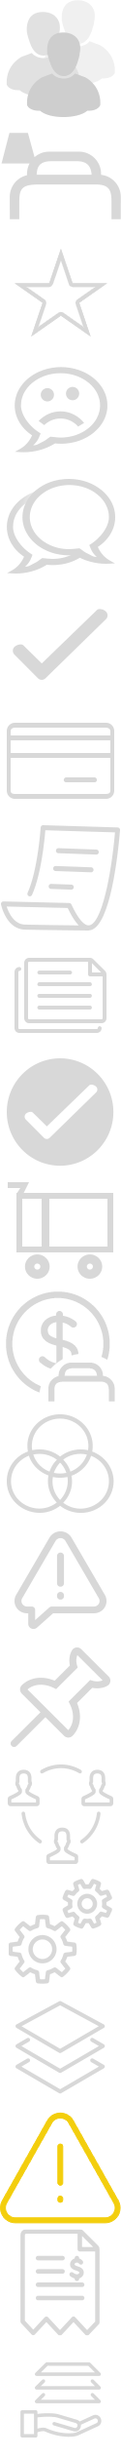
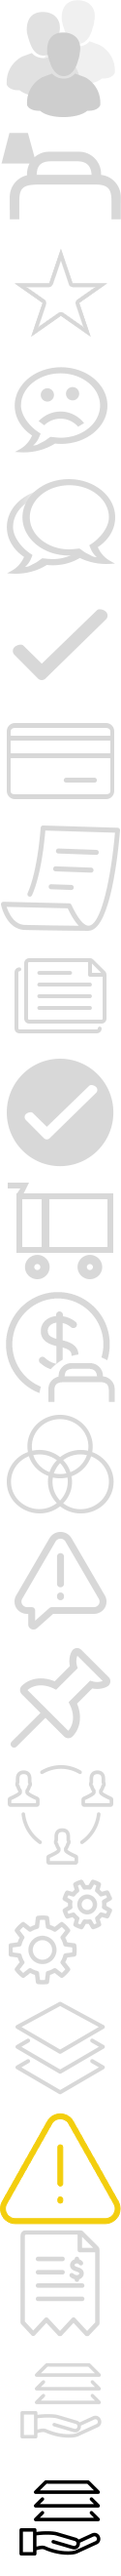
Adding No Content sidebar to CICO-71557

Changed region(s): [[0.0, 0.031, 1.0, 1.0]]

diff --git a/stylesheets/less/app/screens/04.cards.less b/stylesheets/less/app/screens/04.cards.less
@@ -1478,6 +1478,29 @@
                             .size( 100%, 265px );
                             .box-shadow( inset -2px 0px 0 rgba(0, 0, 0, 0.15));
 
+                            .no-content {
+                                padding: 0;
+
+                                .icon-no-content {
+                                    &.icon-contracts-black {
+                                        opacity: 0.15;
+                                        background-size: 80px;
+                                        background-position: -10px -1612px;
+                                        .square(60px);
+                                    }
+                                }
+
+                                .h1 {
+                                    font-size: 18px;
+                                    margin-bottom: 0;
+                                }
+
+                                .h2 {
+                                    font-size: 16px;
+                                    line-height: 16px;
+                                }
+                            }
+
                             .contracts-list-items {
                                 position: relative;
                                 height: 100%;
@@ -1873,6 +1896,12 @@
                                         margin: 0;
                                         background: @white;
                                         .box-shadow(); 
+
+                                        .search {
+                                            input {
+                                                background: @background;
+                                            }
+                                        }
                                     }
                                 }
 

diff --git a/stylesheets/less/app/03_graphics.less b/stylesheets/less/app/03_graphics.less
@@ -35,6 +35,7 @@
         &.icon-alert { background-position: 0 -1035px; }
         &.icon-invoice { background-position: 0 -1095px; }
         &.icon-contracts { background-position: 0 -1155px; }
+        &.icon-contracts-black { background-position: 0 -1215px; }
 
 		@media only screen and (min-width: 600px) {
 			background-size: 125px;
@@ -61,6 +62,7 @@
             &.icon-alert { background-position: 0 -2160px; }
             &.icon-invoice { background-position: 0 -2280px; }
             &.icon-contracts { background-position: 0 -2400px; }
+            &.icon-contracts-black { background-position: 0 -2520px; }
 		}
 
 		@media @highdpi { background-image: @iconNoContent2x; }
